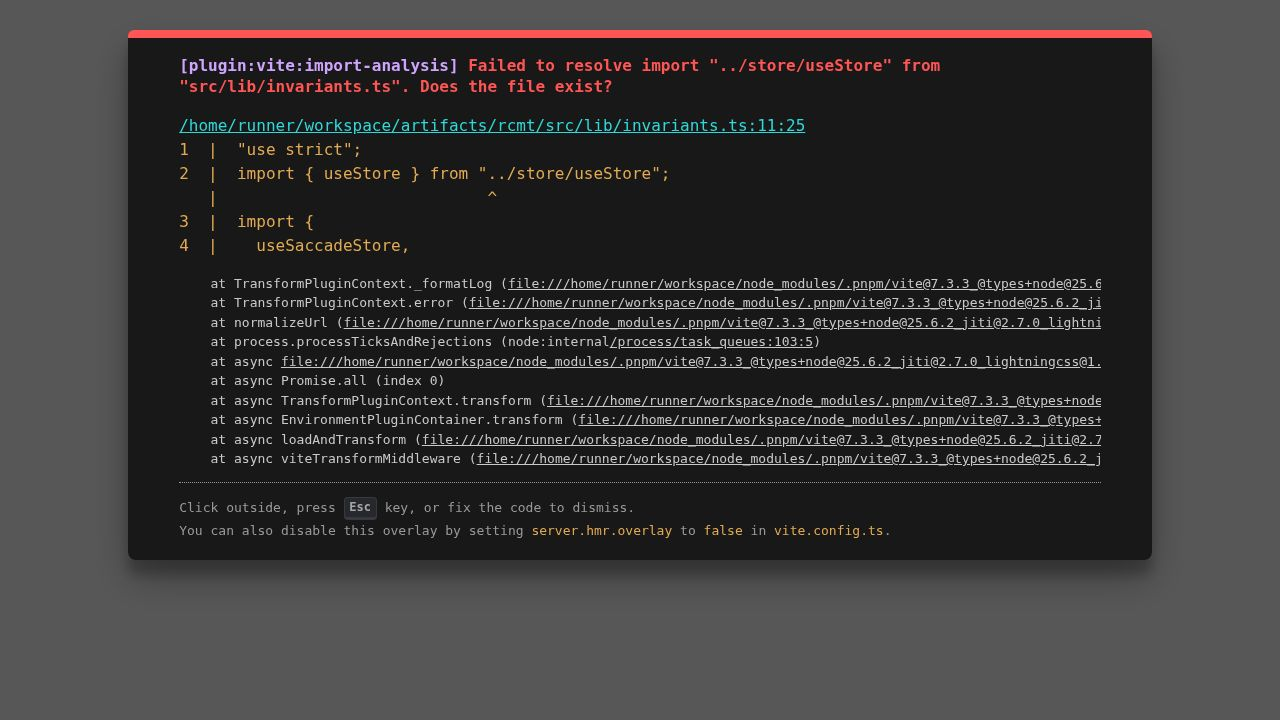
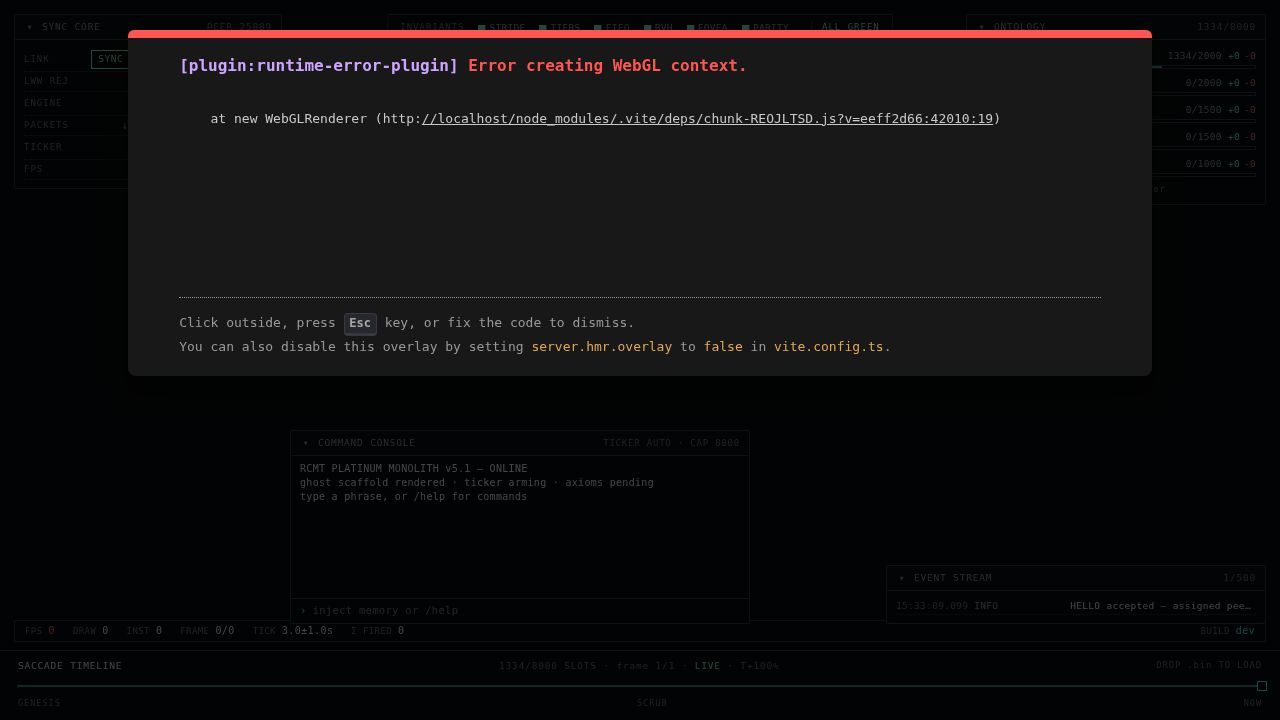
Fix error that prevents the application from loading
Remove unused import and update invariant check to reflect removal of legacy data store.

Replit-Commit-Author: Agent
Replit-Commit-Session-Id: f902854a-f1bc-40d2-b823-83b6d8ea8d16
Replit-Commit-Checkpoint-Type: full_checkpoint
Replit-Commit-Event-Id: 98c1d306-d0f4-44d6-af01-413b6b8d3474
Replit-Commit-Screenshot-Url: https://storage.googleapis.com/screenshot-production-us-central1/40aebc43-60a0-4f8e-9102-f976556e5aa0/f902854a-f1bc-40d2-b823-83b6d8ea8d16/XcW5zxa
Replit-Helium-Checkpoint-Created: true

diff --git a/artifacts/rcmt/src/lib/invariants.ts b/artifacts/rcmt/src/lib/invariants.ts
@@ -8,7 +8,6 @@
  * they trip.
  */
 
-import { useStore } from "../store/useStore";
 import {
   useSaccadeStore,
   MAX_NODES,
@@ -188,45 +187,27 @@ export function checkFoveation(): InvariantResult {
 }
 
 /**
- * 6. Legacy / VRAM parity — counts slots present in `useStore.nodes` but
- *    absent in `mockFrames` (scale === 0) and vice versa.
- *
- *    Expected to be red/amber until Task #4 retires the legacy graph. The
- *    dot's job is to make the very drift we've already shipped LOUD instead
- *    of silent.
+ * 6. Single-source-of-truth parity — the legacy `useStore.nodes` graph has
+ *    been retired, so the VRAM frame buffer (`mockFrames`) is now the only
+ *    node store. With no second graph to drift against, parity is green by
+ *    construction; this check simply confirms a live frame buffer exists and
+ *    reports its populated count.
  */
 export function checkParity(): InvariantResult {
-  const legacy = useStore.getState().nodes;
   const { mockFrames, activeFrameIndex } = useSaccadeStore.getState();
   const frame = mockFrames[activeFrameIndex];
   if (!frame) {
     return { ok: false, detail: "no active frame buffer" };
   }
 
-  const legacySlots = new Set<number>();
-  for (const n of legacy) legacySlots.add(n.index);
-
   let vramPopulated = 0;
-  const vramSlots = new Set<number>();
   for (let i = 0; i < MAX_NODES; i++) {
-    if (frame[i * STRIDE + 6] > 0) {
-      vramPopulated++;
-      vramSlots.add(i);
-    }
+    if (frame[i * STRIDE + 6] > 0) vramPopulated++;
   }
 
-  let onlyLegacy = 0;
-  let onlyVram = 0;
-  for (const s of legacySlots) if (!vramSlots.has(s)) onlyLegacy++;
-  for (const s of vramSlots) if (!legacySlots.has(s)) onlyVram++;
-
-  const drift = onlyLegacy + onlyVram;
   return {
-    ok: drift === 0,
-    detail:
-      drift === 0
-        ? `parity green (${vramPopulated} populated, both sides agree)`
-        : `legacy-only ${onlyLegacy} · vram-only ${onlyVram} (Task #4 fixes this)`,
+    ok: true,
+    detail: `single source of truth — VRAM only (${vramPopulated} populated)`,
   };
 }
 